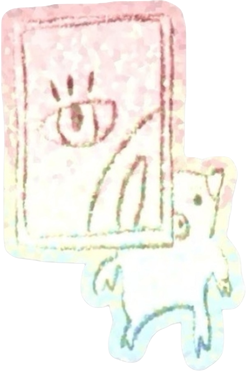
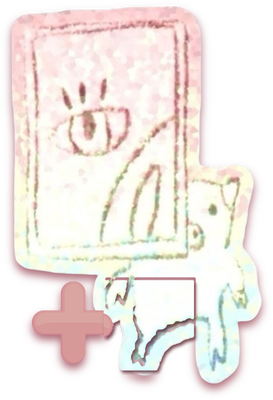
右下角豬 v2（加號、分層陰影）＋左右滑動換日

Changed region(s): [[0.0, 0.0, 0.9919, 1.0], [0.4251, 0.8575, 0.4534, 0.8871]]

diff --git a/css/style.css b/css/style.css
@@ -25,7 +25,7 @@
 * { box-sizing: border-box; }
 html, body { margin: 0; background: var(--bg); color: var(--text);
   font-family: -apple-system, "PingFang TC", "Noto Sans TC", system-ui, sans-serif; }
-body { padding-bottom: calc(160px + var(--safe-bottom));
+body { padding-bottom: calc(180px + var(--safe-bottom));
   /* 底色上鋪淡淡的圓點，像手帳紙 */
   background-image: radial-gradient(rgba(255,255,255,.55) 1.2px, transparent 1.3px);
   background-size: 18px 18px; }
@@ -80,7 +80,7 @@ main { padding: 4px 14px 0; display: grid; gap: 14px; }
 .tools .small { flex-basis: 100%; }
 
 /* ── 新增按鈕：亮粉紅貼紙 ── */
-.fab { position: fixed; right: 12px; bottom: calc(16px + var(--safe-bottom)); width: auto; height: 124px; padding: 0;
+.fab { position: fixed; right: 8px; bottom: calc(10px + var(--safe-bottom)); width: auto; height: 150px; padding: 0;
   border: 0; background: none; filter: drop-shadow(0 6px 10px rgba(205,92,92,.35));
   transition: transform .15s; }
 .fab img { height: 100%; display: block; }
@@ -139,3 +139,11 @@ main { padding: 4px 14px 0; display: grid; gap: 14px; }
 .remain-row { display: flex; align-items: center; justify-content: space-between; gap: 10px; min-height: 20px; }
 .mascot-king { height: 96px; flex: 0 0 auto; margin: -28px -4px -8px 0; filter: drop-shadow(0 3px 4px rgba(205,92,92,.25)); }
 .remain-label.crowned, #remainLabel.crowned { color: var(--accent-dark); font-weight: 800; font-size: 13px; }
+
+/* ── 左右滑動換日的小動畫 ── */
+@keyframes slideL { from { transform: translateX(28px); opacity: .4; } to { transform: none; opacity: 1; } }
+@keyframes slideR { from { transform: translateX(-28px); opacity: .4; } to { transform: none; opacity: 1; } }
+#appMain.slide-left { animation: slideL .22s ease-out; }
+#appMain.slide-right { animation: slideR .22s ease-out; }
+/* 右下角豬 v2 陰影已畫進圖裡，取消 CSS 陰影 */
+.fab { filter: none; }

diff --git a/js/app.js b/js/app.js
@@ -83,6 +83,26 @@ $('prevDay').onclick = () => shiftDay(-1);
 $('nextDay').onclick = () => shiftDay(1);
 $('todayBtn').onclick = () => { currentDate = new Date(); watchDay(); };
 
+// ---------- 左右滑動切換日期 ----------
+// 手指在主畫面水平滑超過 60px、垂直位移小於 50px 就換日：往左滑看後一天，往右滑看前一天
+let touchX = null, touchY = null;
+document.addEventListener('touchstart', e => {
+  if (!sheet.hidden) return;                       // 新增面板開著時不切日期
+  touchX = e.touches[0].clientX; touchY = e.touches[0].clientY;
+}, { passive: true });
+document.addEventListener('touchend', e => {
+  if (touchX === null) return;
+  const dx = e.changedTouches[0].clientX - touchX;
+  const dy = e.changedTouches[0].clientY - touchY;
+  touchX = touchY = null;
+  if (Math.abs(dx) < 60 || Math.abs(dy) > 50) return;
+  const main = $('appMain');
+  main.classList.remove('slide-left', 'slide-right');
+  void main.offsetWidth;                            // 重新觸發動畫
+  main.classList.add(dx < 0 ? 'slide-left' : 'slide-right');
+  shiftDay(dx < 0 ? 1 : -1);
+}, { passive: true });
+
 // ---------- 目標熱量 ----------
 $('goalBtn').onclick = async () => {
   const v = prompt('每日目標熱量（kcal）', storage.getSettings().goalKcal);

diff --git a/sw.js b/sw.js
@@ -1,6 +1,6 @@
 // sw.js v4 ── service worker（守門員）。第一次開啟時把檔案存進手機，之後離線也能用。
 // 每次改程式要把 VERSION 改一個新字串，手機才會換新版。
-const VERSION = 'v7.1-ikea-2026-09-14';
+const VERSION = 'v7.2-fabv2-swipe-2026-09-14';
 const FILES = [
   './', './index.html', './css/style.css',
   './js/app.js', './js/storage.js', './js/foods.js', './js/firebase-config.js',
